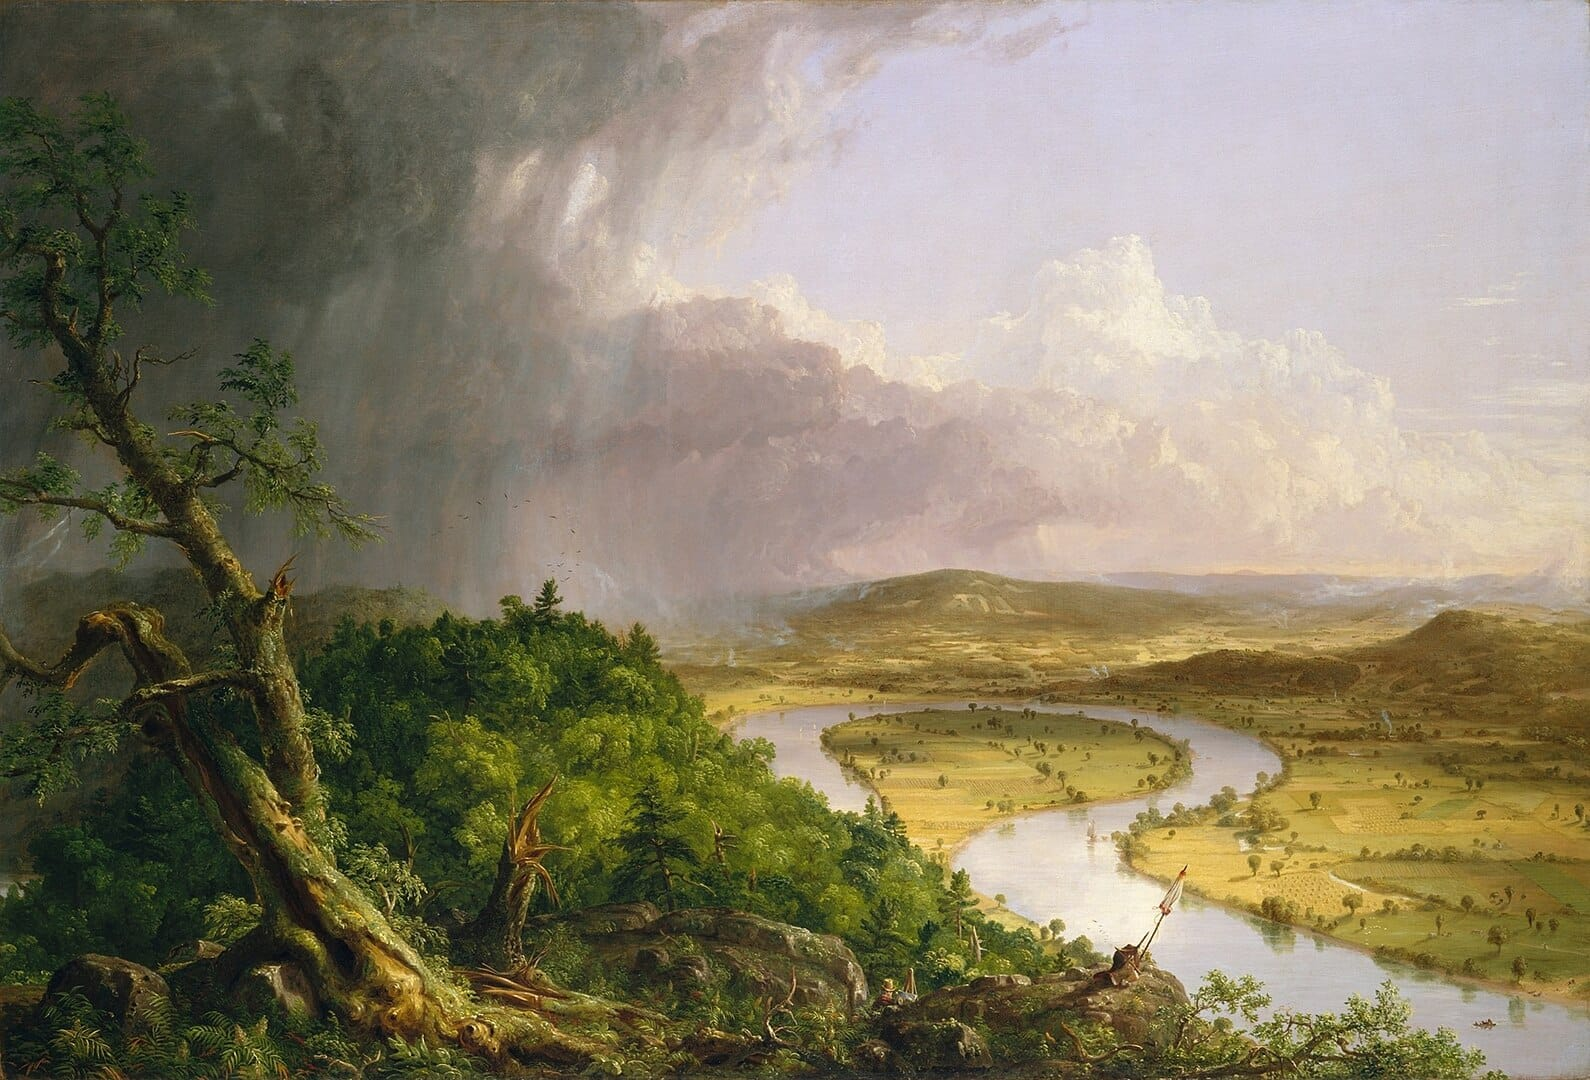
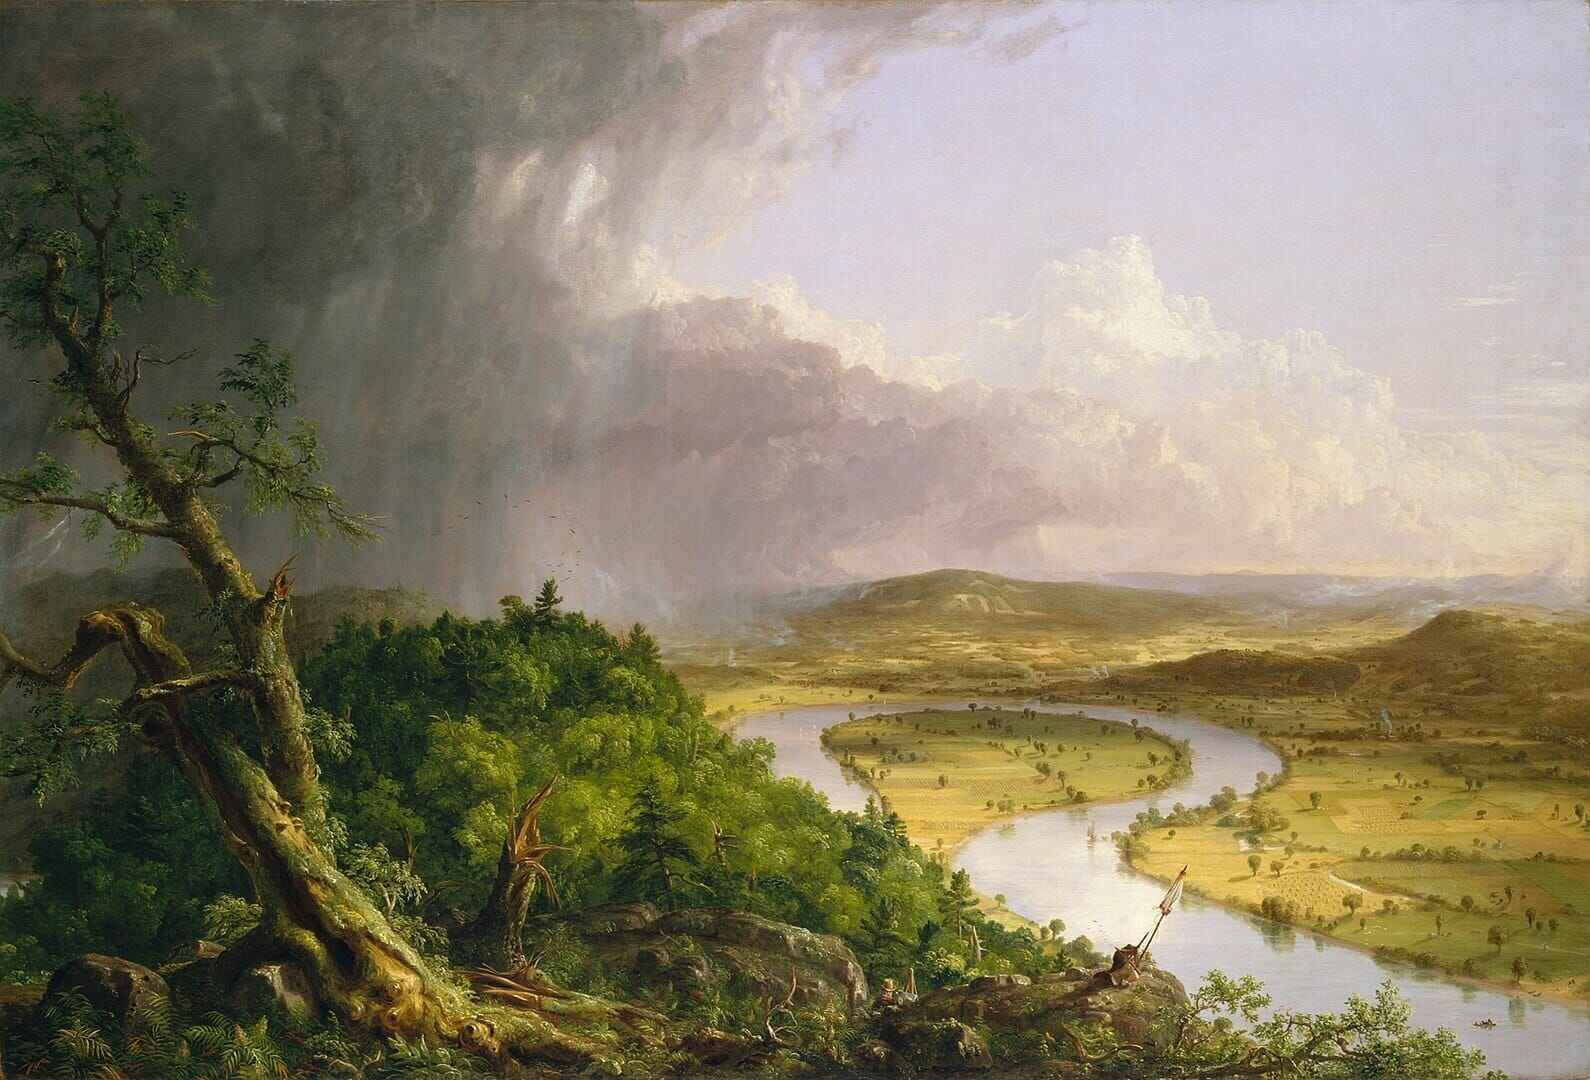
Compress images

Changed region(s): [[0.8321, 0.9472, 0.8629, 0.9778]]

diff --git a/src/pages/Home/Editing.tsx b/src/pages/Home/Editing.tsx
@@ -1,5 +1,5 @@
 import React from "react";
-import editingImg from "~/assets/editing3.png";
+import editingImg from "~/assets/editing.png";
 import SectionTitle from "../../common/ui/SectionTitle";
 const Editing: React.FC = () => {
   const features = [
